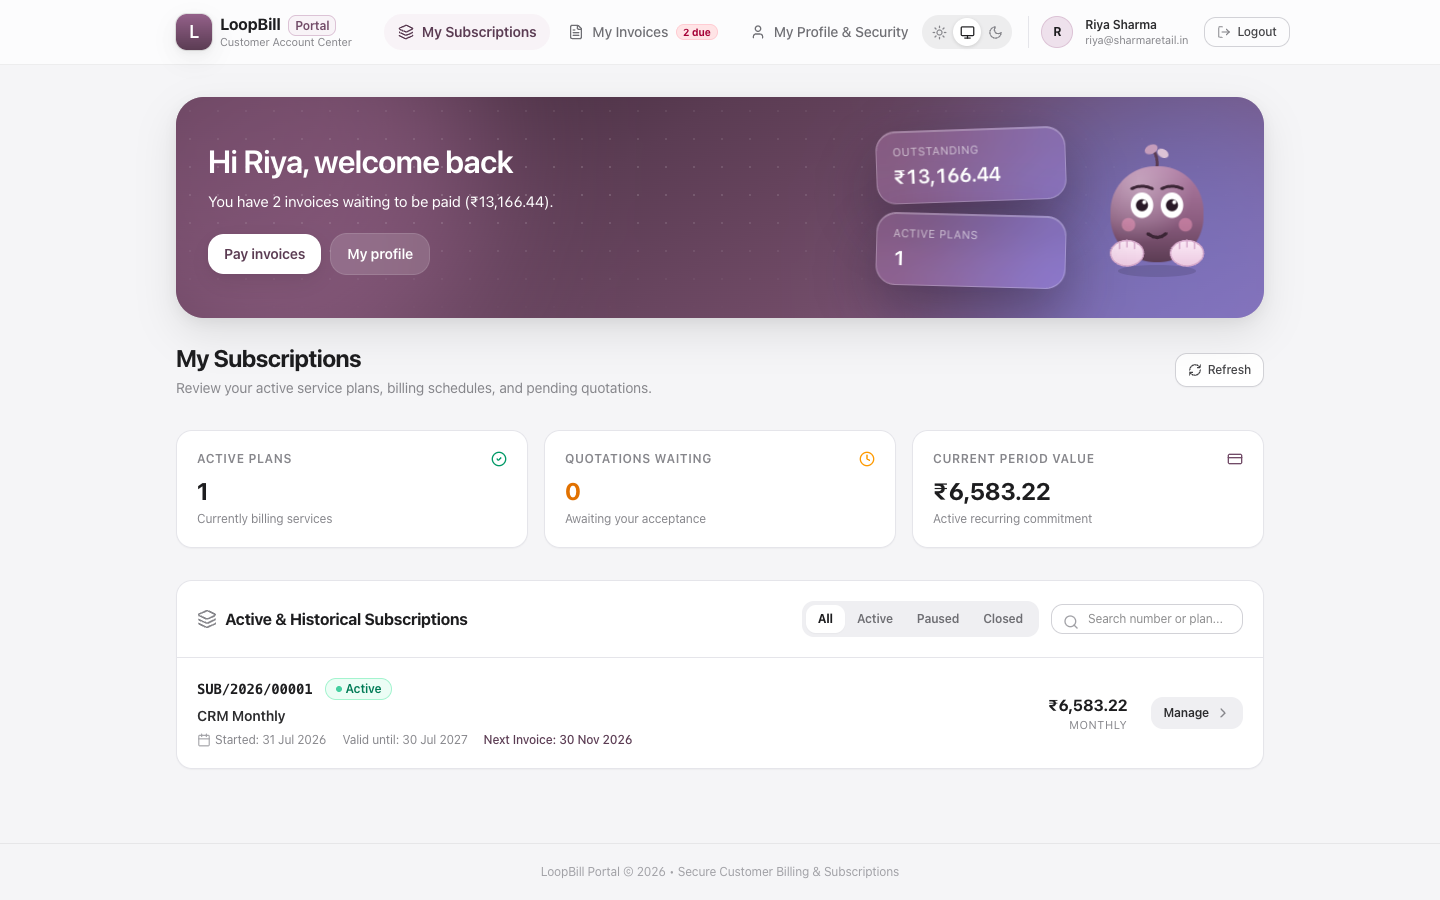
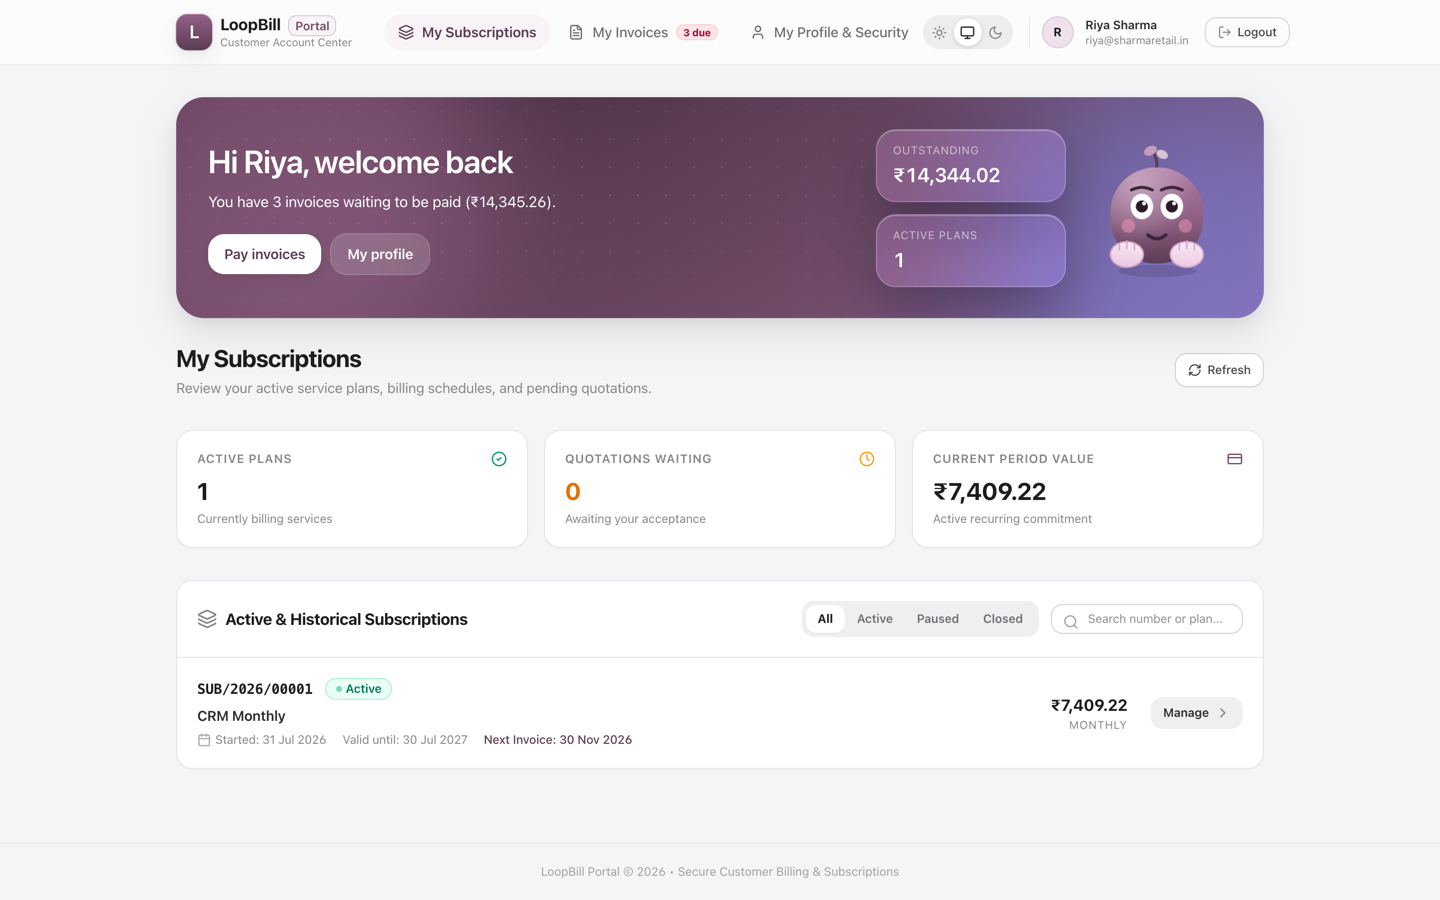
Update README for proration, payments and reminders; add proration screenshots
Adds a proration screenshot section, refreshes the subscription detail and
portal screenshots, updates the architecture, billing run and data model
diagrams, and brings the tech stack, structure and API tables up to date.

diff --git a/README.md b/README.md
@@ -53,6 +53,13 @@ One system to run plans, subscriptions and recurring billing for Brightloop Soft
 |---|---|
 | **My subscriptions**<br>![Portal subscriptions](docs/screenshots/portal-subscriptions.png) | **My invoices**<br>![Portal invoices](docs/screenshots/portal-invoices.png) |
 
+### Mid-period changes (proration)
+
+| | |
+|---|---|
+| **Customer add-ons** — switch extras on or off, or add new ones<br>![Customer add-ons](docs/screenshots/portal-addons.png) | **Switching off** — the unused days come back as a credit, shown before confirming<br>![Credit preview](docs/screenshots/proration-dialog.png) |
+| **Adding** — only the days left in the period are charged<br>![Charge preview](docs/screenshots/proration-charge.png) | **Adjustment invoice** — the prorated charge, with GST, ready to pay<br>![Adjustment invoice](docs/screenshots/invoice-adjustment.png) |
+
 ### Sign in
 
 ![Login](docs/screenshots/login.png)
@@ -68,16 +75,19 @@ flowchart LR
     end
     subgraph Server["Express API"]
         MW["Auth + RBAC<br/>validation, errors"]
-        MOD["Modules<br/>catalog, subscriptions, billing,<br/>invoices, payments, reports"]
-        JOB["Nightly job 00:05<br/>activate, bill, auto-close"]
+        MOD["Modules<br/>catalog, subscriptions (with proration), billing,<br/>invoices + PDF, payments, reminders, reports"]
+        JOB["Nightly job 00:05<br/>activate, bill, auto-close, remind"]
     end
     DB[("PostgreSQL<br/>via Prisma")]
     MAIL["SMTP / Mailpit"]
+    PAY["Razorpay<br/>or built-in test gateway"]
 
     UI -- "REST /api + httpOnly cookie" --> MW --> MOD
     JOB --> MOD
     MOD --> DB
-    MOD -- "quotations, invoices,<br/>reset links" --> MAIL
+    MOD -- "quotations, invoices (PDF),<br/>reminders, reset and verify links" --> MAIL
+    UI -- "checkout" --> MOD
+    MOD <-- "orders, signed confirmation,<br/>webhooks" --> PAY
 ```
 
 ### Subscription lifecycle
@@ -89,7 +99,7 @@ stateDiagram-v2
     Quotation --> Confirmed: customer accepts or staff confirms
     Draft --> Confirmed: staff confirms
     Confirmed --> Active: start date reached or activated
-    Active --> Active: pause / resume / renew / switch add-ons
+    Active --> Active: pause / resume / renew / change add-ons (prorated)
     Active --> Closed: close early or auto-close at expiry
     Draft --> Closed
     Quotation --> Closed
@@ -97,7 +107,7 @@ stateDiagram-v2
     Closed --> [*]
 ```
 
-Pause, early close, renewal and auto-close are allowed per plan, according to the plan's flags.
+Pause, early close, renewal and auto-close are allowed per plan, according to the plan's flags. Adding, removing, switching or re-sizing lines on an active subscription is prorated (see [Proration rules](#proration-rules)).
 
 ### Invoice lifecycle
 
@@ -112,6 +122,8 @@ stateDiagram-v2
     Cancelled --> [*]
 ```
 
+An **adjustment invoice** (a prorated charge for a mid-period change) follows the same lifecycle but belongs to no billing period, so it never blocks the regular invoice for that period.
+
 ### Billing run
 
 ```mermaid
@@ -122,9 +134,10 @@ sequenceDiagram
     T->>S: run(today)
     S->>D: active, unpaused subscriptions with next invoice date <= today
     loop each subscription, each missed period
-        S->>S: price lines, apply discounts, add taxes (in paise)
+        S->>S: price lines, apply discounts, add taxes and the GST split (in paise)
+        S->>D: lock the subscription, apply pending proration credits as negative lines
         S->>D: create draft invoice (unique per subscription + period start)
-        S->>D: use up discounts, move next invoice date forward
+        S->>D: use up discounts and credits, move next invoice date forward
     end
     Note over S,D: A second run finds nothing to bill, so nothing is billed twice
 ```
@@ -149,6 +162,11 @@ erDiagram
     SUBSCRIPTION ||--o{ INVOICE : "billed as"
     INVOICE ||--|{ INVOICE_LINE : has
     INVOICE ||--o{ PAYMENT : "settled by"
+    INVOICE ||--o{ PAYMENT_INTENT : "online checkout"
+    INVOICE ||--o{ NOTIFICATION_LOG : "reminders"
+    SUBSCRIPTION ||--o{ SUBSCRIPTION_CREDIT : "pending credits"
+    SUBSCRIPTION_CREDIT }o--o| INVOICE : "applied on"
+    USER ||--o{ EMAIL_VERIFICATION_TOKEN : "confirms email"
 ```
 
 ## Tech stack
@@ -159,6 +177,10 @@ erDiagram
 | Database | PostgreSQL 16 with Prisma 6 |
 | Auth | bcryptjs, JWT in httpOnly cookies |
 | Email | Nodemailer (Mailpit locally) |
+| Payments | Razorpay (orders, signed checkout, webhooks) and a built-in test gateway |
+| PDF | pdfkit with Noto Sans embedded |
+| Scheduling | node-cron (billing, auto-close, reminders) |
+| Tests and CI | `node --test` against a real PostgreSQL, GitHub Actions, Docker |
 | Frontend | React 19, Vite, Tailwind CSS 4, TanStack Query, React Hook Form, Recharts, Lucide |
 
 ## Getting started
@@ -252,6 +274,8 @@ cd backend
 npm test
 ```
 
+There are 160 automated tests in total.
+
 | Suite | What it covers |
 |---|---|
 | Unit tests | billing maths, password rule, tax and discount validation, role checks |
@@ -285,9 +309,10 @@ backend/
   src/
     modules/          auth, users, customers, taxes, payment-terms, discounts,
                       products, plans, templates, subscriptions, billing,
-                      invoices, payments, reports
-    lib/              billing-core (money maths in paise), sequences, mailer
-    jobs/             nightly activation, billing and auto-close
+                      invoices, payments, reminders, reports
+    lib/              billing-core (money maths in paise), proration, gst, sequences,
+                      mailer, amount-in-words
+    jobs/             nightly activation, billing, auto-close and reminders
     middleware/       auth/RBAC, validation, errors
     tests/
 frontend/
@@ -308,8 +333,9 @@ All routes are under `/api` and need a login except `/api/auth`.
 | `/auth` | signup, login, logout, me, forgot and reset password |
 | `/users`, `/customers` | staff accounts, customers |
 | `/taxes`, `/payment-terms`, `/discounts` | configuration (admin writes, staff reads) |
+| `/products/addons` | optional add-ons any signed-in user (including customers) may add to their own subscription |
 | `/products`, `/variants`, `/plans`, `/quotation-templates` | catalog (admin writes, staff reads) |
-| `/subscriptions` | create, edit, send-quotation, confirm, activate, pause, resume, renew, close, add-on lines |
+| `/subscriptions` | create, edit, send-quotation, confirm, activate, pause, resume, renew, close, add-on lines (prorated), `POST /:id/changes/preview` shows the cost of a change without making it |
 | `/billing` | run billing, billing status |
 | `/invoices`, `/payments` | invoices (including `/:id/pdf`) and payment recording |
 | `/reports` | summary, revenue by month, GST summary (`/gst-summary`, `/export-gst`) |
